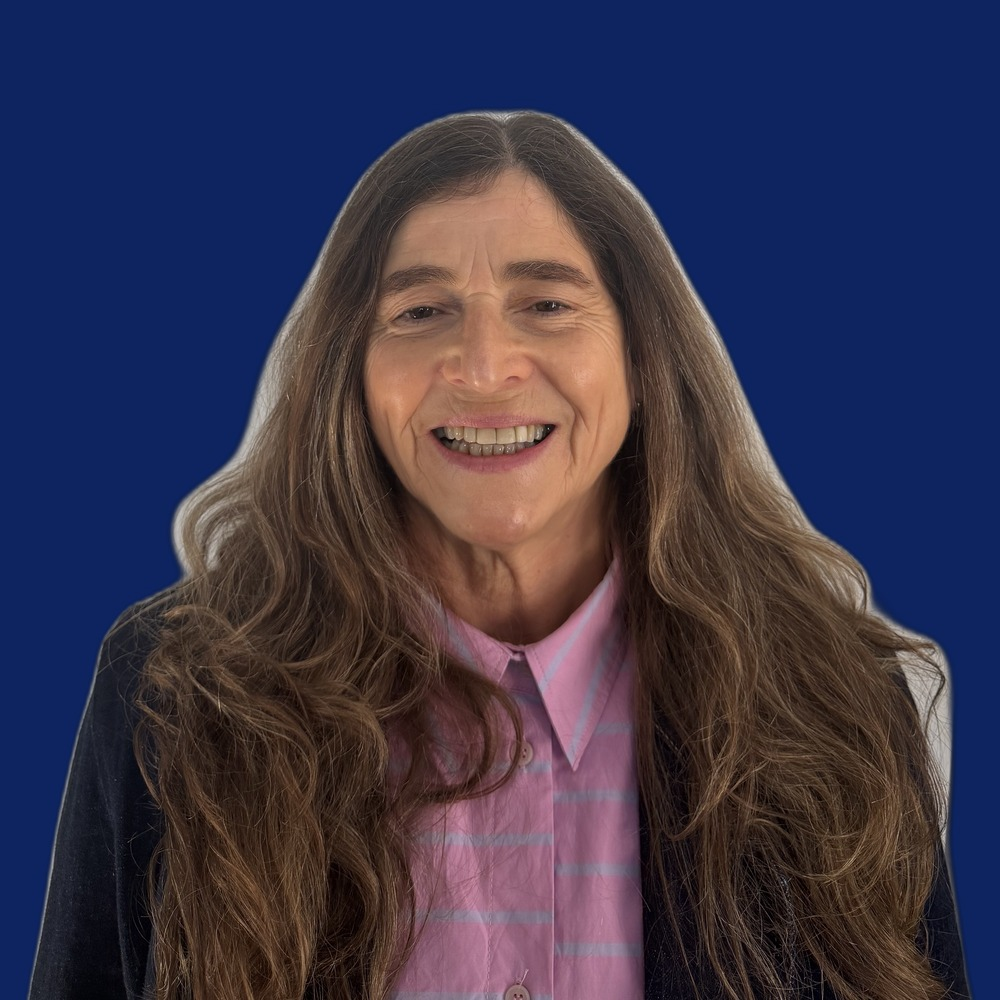
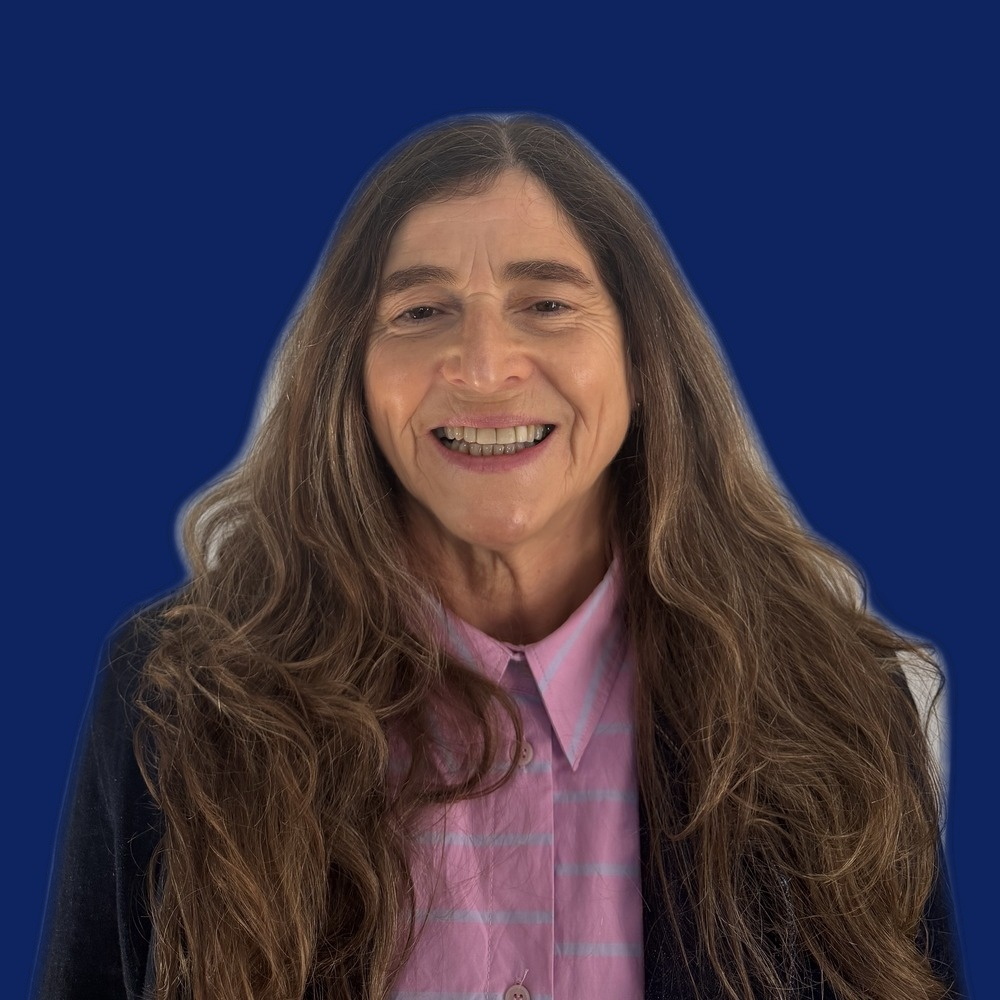
Corregir halo blanco en las fotos de Sonia y Victoria
Ambas fotos tienen el fondo reemplazado digitalmente por el navy sólido
del sitio, y el recorte original dejó un remanente claro de ~12-18px
alrededor del contorno del cabello (más visible en pelo oscuro contra el
navy). Corregido con un choke gradual del borde hacia el color de fondo,
limitado a zonas donde el contexto es cabello (no toca ropa ni rostro).
Verificado a nivel de píxel y en el tamaño real de uso (avatar circular).

diff --git a/PENDIENTES.md b/PENDIENTES.md
@@ -6,6 +6,38 @@ contenido inventado: son huecos explícitos a completar con material real del
 cliente antes de lanzar. Ver también `DGV_Spec_Desarrollo.md` sección 9.2
 (checklist de lanzamiento), que ya listaba varios de estos ítems.
 
+## Etapa 26 (Halo blanco en las fotos de Sonia y Victoria)
+
+El cliente notó un reflejo/halo blanco alrededor del cabello en las fotos
+individuales de Sonia y Victoria (`public/images/team/sonia.jpg` y
+`victoria.jpg`). Diagnóstico: son fotos con fondo reemplazado
+digitalmente por el navy sólido del sitio (`rgb(14,36,96)`, uniforme en
+las 4 esquinas — confirmado con muestreo de píxeles), y el recorte
+original dejó un remanente claro/blanquecino de unos 12-18px de ancho
+alrededor del contorno del cabello (más visible en pelo oscuro contra el
+navy, por eso se notaba más en Sonia y Victoria que en Daniel, de pelo
+canoso).
+
+- [x] Corregido con un script de "choke" del borde: se detecta el fondo
+      navy exacto, se mide la distancia de cada píxel al fondo, y dentro
+      de una franja de ~18px se atenúa gradualmente hacia el color de
+      fondo (más fuerte cerca del borde, sin efecto en el interior) —
+      pero **solo donde el contexto es cabello** (se verifica que haya
+      píxeles oscuros más adentro antes de tocar cualquier píxel, para no
+      afectar por error el saco negro ni la ropa clara).
+      Iteración: un primer intento con una franja de 6px no alcanzaba a
+      cubrir todo el halo (que en algunos puntos, sobre todo cerca de la
+      coronilla, llega a 12-15px de ancho real) — se corrigió ampliando a
+      18px después de medir el perfil de píxeles real con un scan
+      vertical sobre la imagen original.
+- [x] Verificado a nivel de píxel (zoom 3-4x, comparación antes/después en
+      la zona de la frente y el nacimiento del pelo de ambas) — el halo
+      se redujo drásticamente, sin tocar la ropa ni el rostro. A tamaño
+      real (avatar circular de `/nosotros`) el resultado es limpio.
+- [x] Reemplazados directamente `sonia.jpg` y `victoria.jpg` en
+      `public/images/team/` — mismo nombre de archivo, no requiere
+      cambios en `src/data/team.ts` ni en ningún componente.
+
 ## Etapa 25 (Imagen faltante en el Hero de /contacto)
 
 El cliente notó que `/contacto` era la única página principal del sitio
